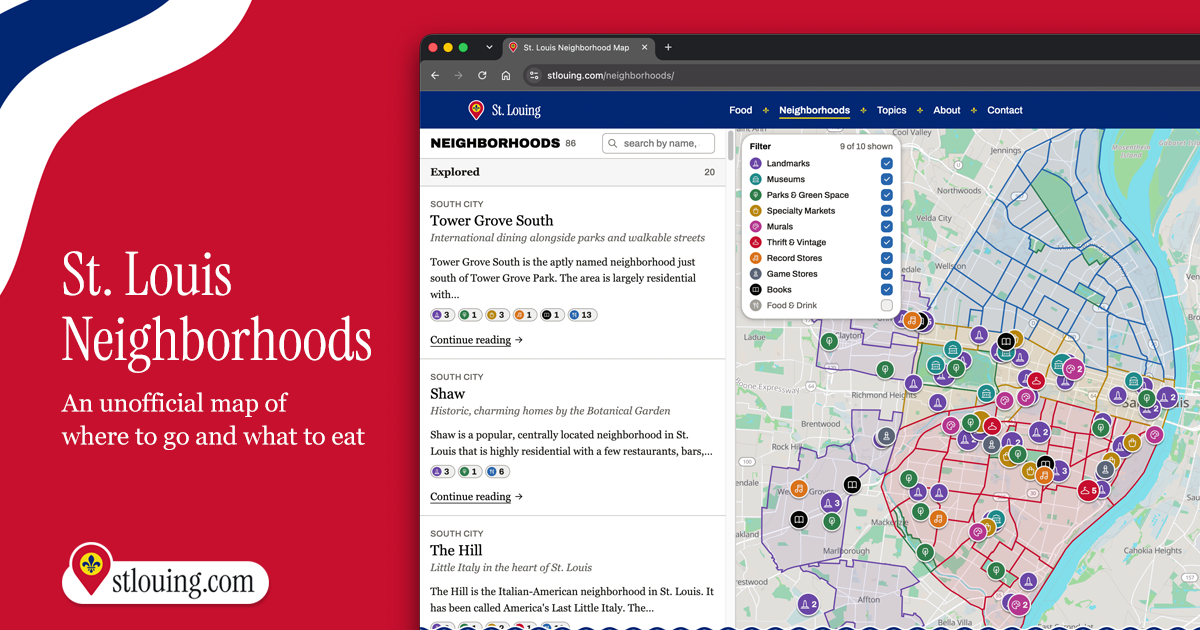
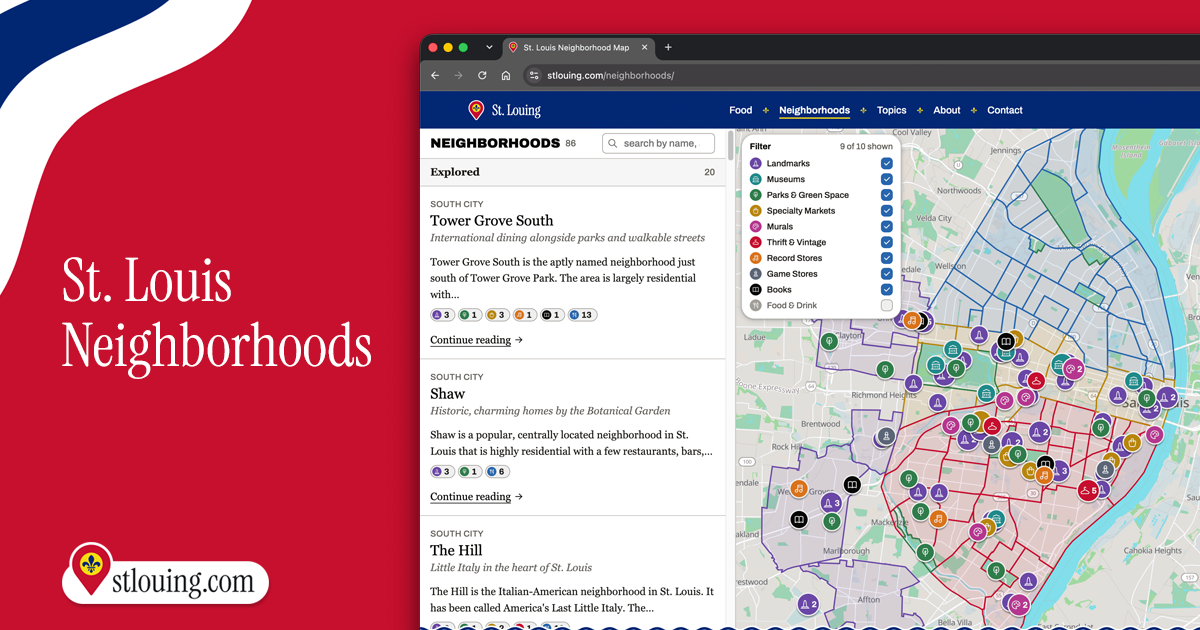
fix murals

Changed region(s): [[0.0308, 0.6333, 0.3083, 0.7238], [0.0617, 0.5127, 0.3083, 0.6032], [0.0308, 0.3921, 0.2158, 0.4825]]

diff --git a/src/lib/map-spots.ts b/src/lib/map-spots.ts
@@ -2,7 +2,7 @@ import type { CollectionEntry } from 'astro:content'
 import { getImage } from 'astro:assets'
 import { hasBody } from './content'
 import { cuisineLabel } from './cuisine'
-import { googleMapsHref } from './maps'
+import { googleMapsHref, googleSearchHref } from './maps'
 import { spotCategories, type MapSpot, type Spot } from './spots'
 import { href } from './url'
 import { resolveVerdict, verdictLabels } from './verdict'
@@ -22,11 +22,14 @@ export function spotDirectionsHref(spot: Spot): string | undefined {
     return undefined
   }
 
-  return googleMapsHref({
-    title: spot.name,
-    address: spot.address ? [spot.address, 'St. Louis, MO'] : undefined,
-    coords: [spot.coords[1], spot.coords[0]],
-  })
+  if (!spot.address) {
+    return googleSearchHref(`${spot.name}, St. Louis, MO`)
+  }
+
+  const location = `${spot.address}, St. Louis, MO`
+  const query = spot.category === 'mural' ? location : `${spot.name}, ${location}`
+
+  return googleSearchHref(query)
 }
 
 export function spotToMapSpot(spot: Spot): MapSpot | undefined {

diff --git a/src/lib/maps.ts b/src/lib/maps.ts
@@ -1,3 +1,7 @@
+export function googleSearchHref(query: string): string {
+  return `https://www.google.com/maps/search/?api=1&query=${encodeURIComponent(query)}`
+}
+
 export function googleMapsHref(place: {
   title: string
   address?: string[]
@@ -10,5 +14,5 @@ export function googleMapsHref(place: {
     query = place.coords.join(',')
   }
 
-  return `https://www.google.com/maps/search/?api=1&query=${encodeURIComponent(query)}`
+  return googleSearchHref(query)
 }
